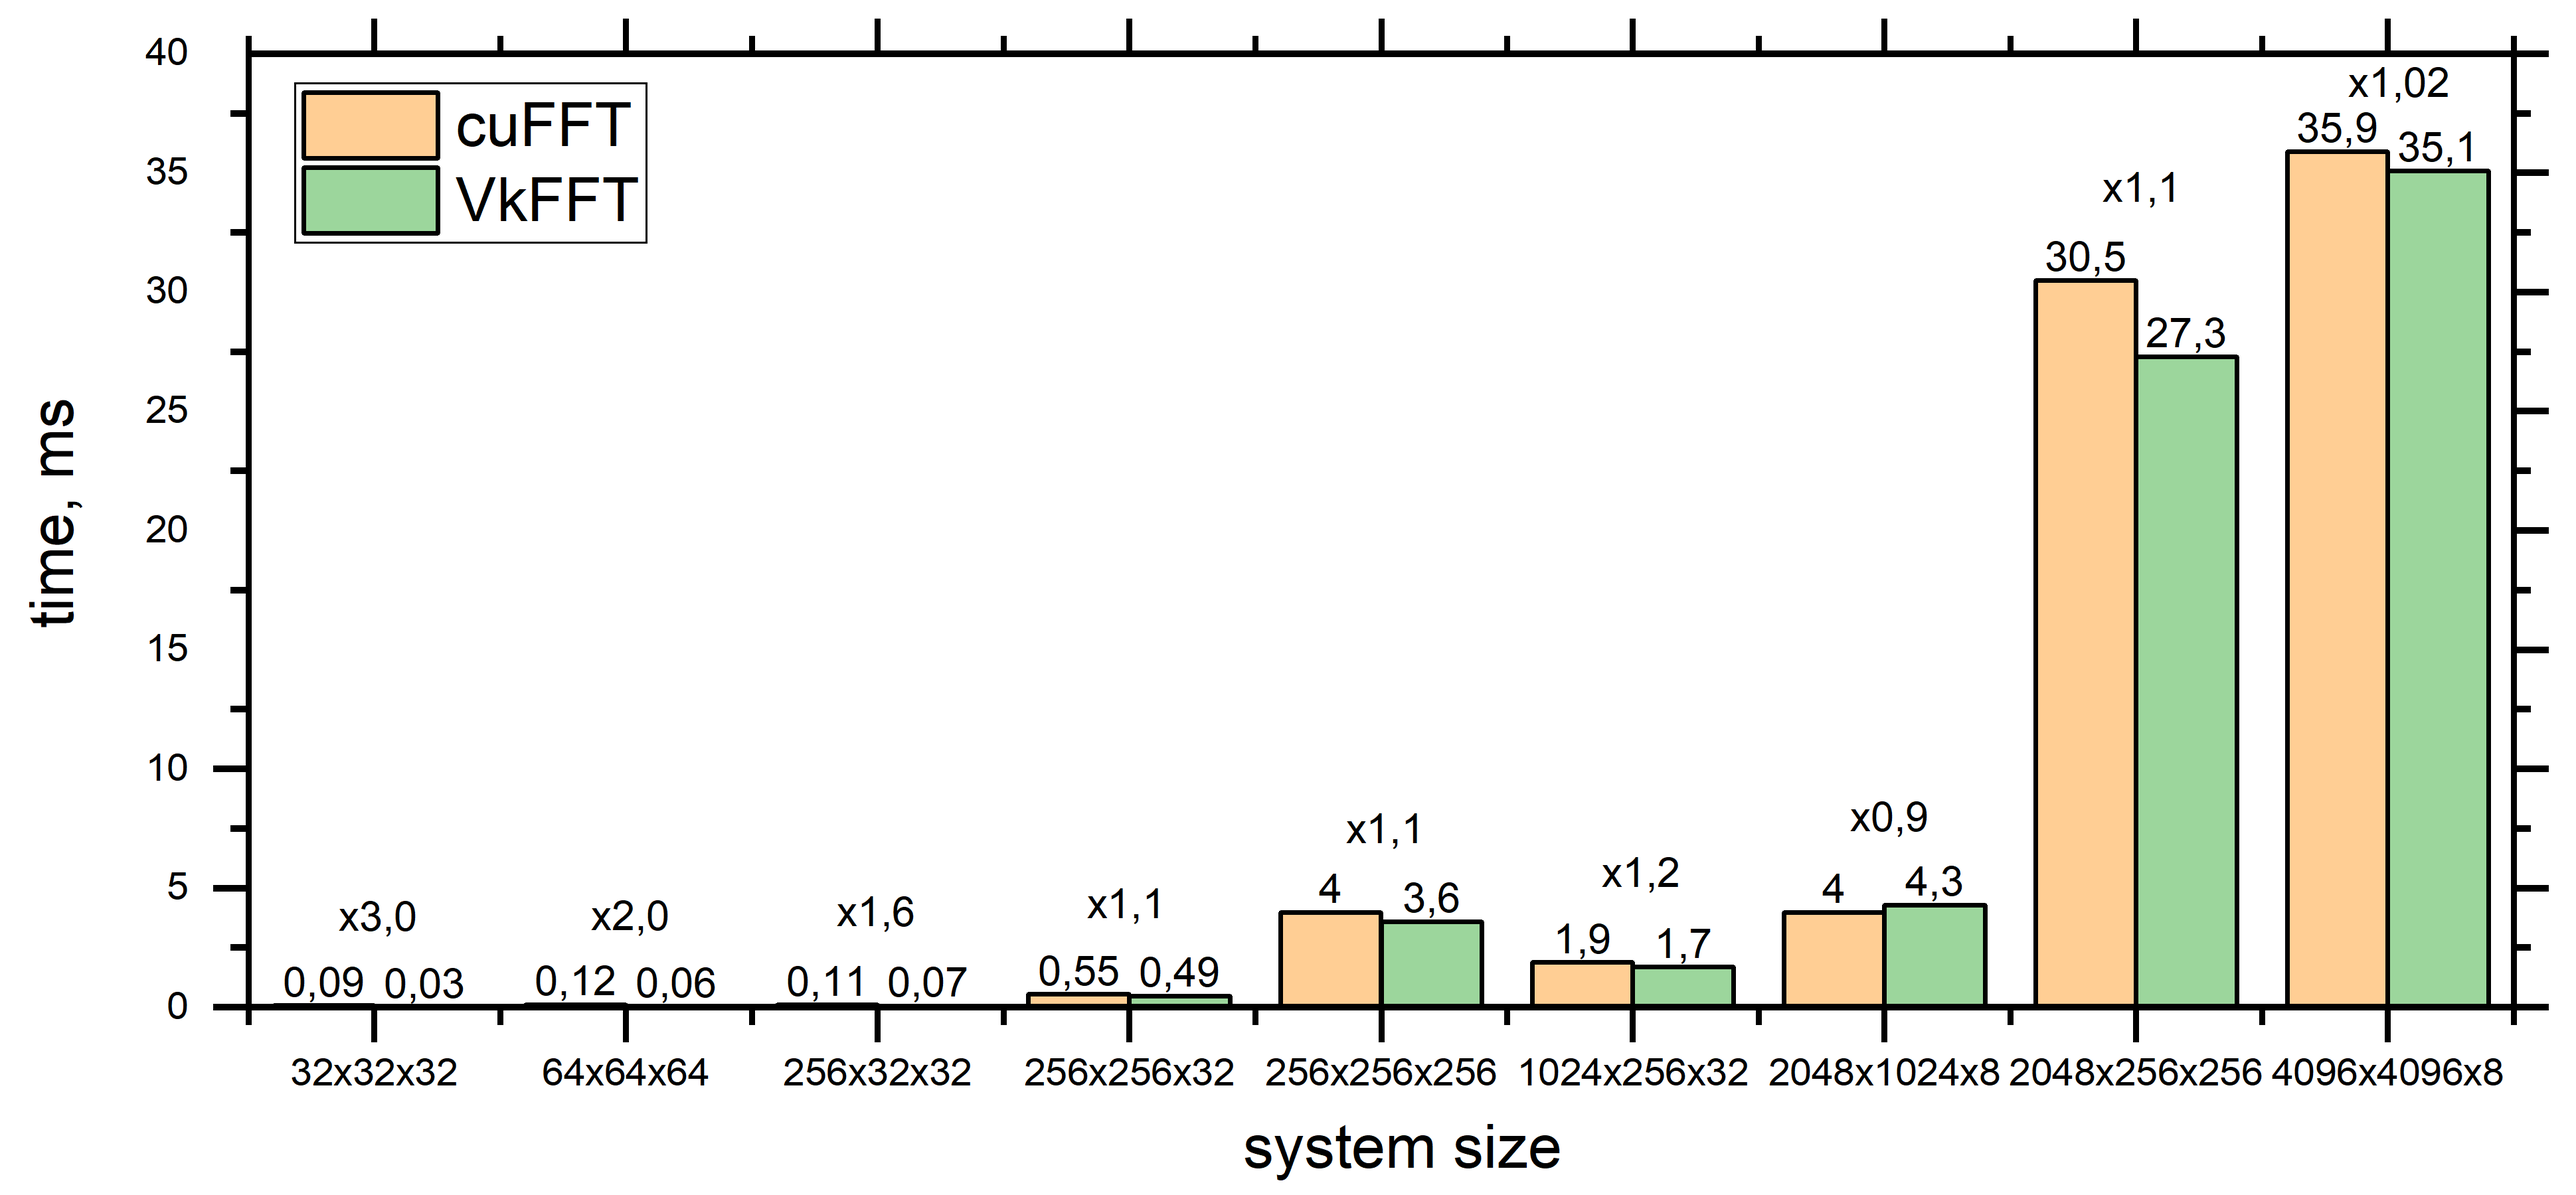
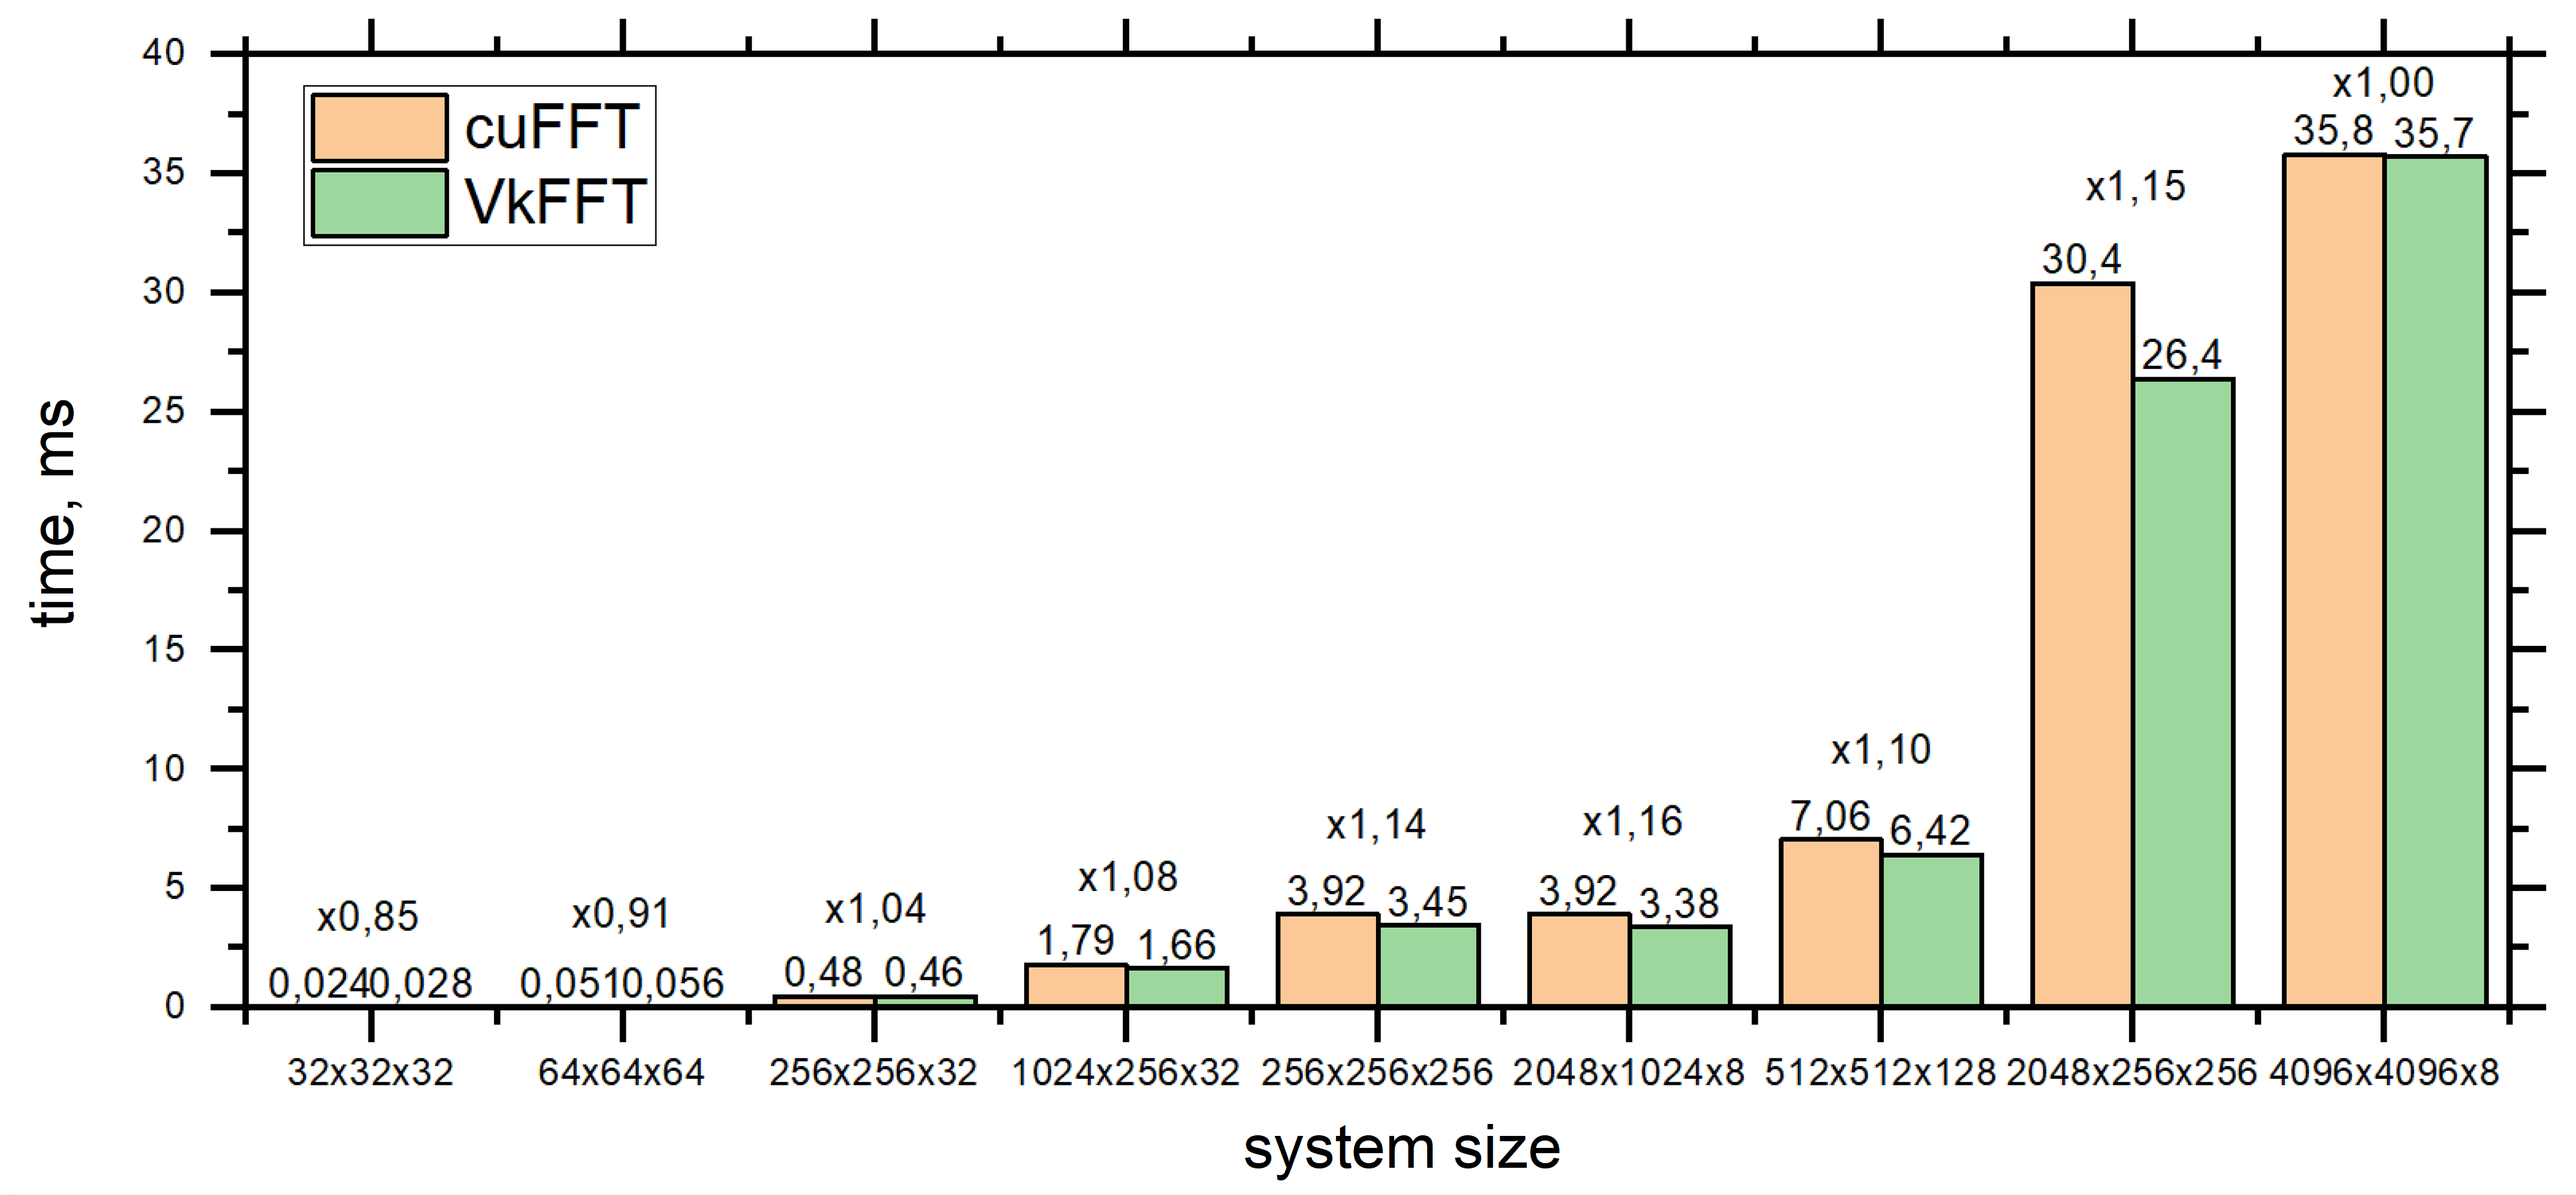
performance update for modern GPUs -improved performance on 512 and 1024 sequences on Nvidia GPUs with compute capability  >=6.0 -added option to choose the amount of coalesced memory per transfer (GPU dependent parameter) -updated cuFFT benchmark and benchmark images (llukas issue)

diff --git a/Vulkan_FFT.cpp b/Vulkan_FFT.cpp
@@ -392,15 +392,16 @@ int main()
 	vkGetPhysicalDeviceProperties(physicalDevice, &physicalDeviceProperties);
 	vkGetPhysicalDeviceMemoryProperties(physicalDevice, &physicalDeviceMemoryProperties);
 
-	uint32_t sample_id = 4;//setting parameter for VkFFT samples. 0 - FFT + iFFT R2C/C2R benchmark. 1 - convolution. 2 - zeropadding convolution. 3 - multiple feature(kernel) convolution. 4 - 8k sequence for testing
+	uint32_t sample_id = 0;//setting parameter for VkFFT samples. 0 - FFT + iFFT R2C/C2R benchmark. 1 - convolution. 2 - zeropadding convolution. 3 - multiple feature(kernel) convolution. 4 - 8k sequence for testing
 	switch (sample_id) {
 	case 0:
 	{
 		//0 - FFT + iFFT R2C/C2R benchmark
-		const uint32_t num_benchmark_samples = 20;
+		const uint32_t num_benchmark_samples = 19;
 		const uint32_t num_runs = 5;
-		uint32_t benchmark_dimensions[num_benchmark_samples][4] = { {32, 32, 1, 2}, {64, 64, 1, 2}, {256, 32, 1, 2}, {256, 256, 1, 2}, {1024, 256, 1, 2},{1024, 1024, 1, 2}, {4096, 256, 1, 2}, {4096, 2048, 1, 2}, {4096, 4096, 1, 2},
-																	{32, 32, 32, 3}, {64, 64, 64, 3}, {256, 32, 32, 3}, {256, 256, 32, 3}, {256, 256, 256, 3}, {1024, 256, 32, 3}, {1024, 1024, 8, 3}, {2048, 1024, 8, 3}, {2048, 256, 256, 3}, {4096, 4096, 8, 3}, {4096, 4096, 16, 3} };
+		printf("First %d runs are a warmup\n", num_runs);
+		uint32_t benchmark_dimensions[num_benchmark_samples][4] = { {1024, 1024, 1, 2}, {64, 64, 1, 2}, {256, 256, 1, 2}, {1024, 256, 1, 2}, {512, 512, 1, 2}, {1024, 1024, 1, 2},  {4096, 256, 1, 2}, {2048, 1024, 1, 2},{4096, 2048, 1, 2}, {4096, 4096, 1, 2},
+																	{32, 32, 32, 3}, {64, 64, 64, 3}, {256, 256, 32, 3},  {1024, 256, 32, 3},  {256, 256, 256, 3}, {2048, 1024, 8, 3},  {512, 512, 128, 3}, {2048, 256, 256, 3}, {4096, 4096, 8, 3}};
 
 		for (uint32_t n = 0; n < num_benchmark_samples; n++) {
 
@@ -412,6 +413,7 @@ int main()
 				VkFFTApplication app_inverse;
 				//FFT + iFFT sample code.
 				//Setting up FFT configuration for forward and inverse FFT.
+				forward_configuration.coalescedMemory = 32;//in bits, for Nvidia compute capability >=6.0 is equal to 32, <6.0 and Intel is equal 128. Gonna work regardles, but if specified by user correctly, the performance will be higher. 
 				forward_configuration.FFTdim = benchmark_dimensions[n][3]; //FFT dimension, 1D, 2D or 3D (default 1).
 				forward_configuration.size[0] = benchmark_dimensions[n][0]; //Multidimensional FFT dimensions sizes (default 1). For best performance (and stability), order dimensions in descendant size order as: x>y>z.   
 				forward_configuration.size[1] = benchmark_dimensions[n][1];
@@ -468,6 +470,7 @@ int main()
 				//Submit FFT+iFFT.
 				uint32_t batch = ((4096.0 * 1024.0 * 1024.0) / bufferSize > 1000) ? 1000 : (4096.0 * 1024.0 * 1024.0) / bufferSize;
 				if (batch == 0) batch = 1;
+				//batch *= 5; //makes result more smooth, takes longer time
 				float totTime = performVulkanFFTiFFT(&app_forward, &app_inverse, batch);
 				float* buffer_output = (float*)malloc(bufferSize);
 				
@@ -513,6 +516,7 @@ int main()
 		VkFFTApplication app_kernel;
 		//Convolution sample code
 		//Setting up FFT configuration. FFT is performed in-place with no performance loss. 
+		forward_configuration.coalescedMemory = 32;//in bits, for Nvidia compute capability >=6.0 is equal to 32, <6.0 and Intel is equal 128. Gonna work regardles, but if specified by user correctly, the performance will be higher. 
 		forward_configuration.FFTdim = 3; //FFT dimension, 1D, 2D or 3D (default 1).
 		forward_configuration.size[0] = 32; //Multidimensional FFT dimensions sizes (default 1). For best performance (and stability), order dimensions in descendant size order as: x>y>z. 
 		forward_configuration.size[1] = 32;
@@ -667,6 +671,7 @@ int main()
 		VkFFTApplication app_kernel;
 		//Zeropadding Convolution sample code
 		//Setting up FFT configuration. FFT is performed in-place with no performance loss. 
+		forward_configuration.coalescedMemory = 32;//in bits, for Nvidia compute capability >=6.0 is equal to 32, <6.0 and Intel is equal 128. Gonna work regardles, but if specified by user correctly, the performance will be higher. 
 		forward_configuration.FFTdim = 3; //FFT dimension, 1D, 2D or 3D (default 1).
 		forward_configuration.size[0] = 256; //Multidimensional FFT dimensions sizes (default 1). For best performance (and stability), order dimensions in descendant size order as: x>y>z. 
 		forward_configuration.size[1] = 256;
@@ -823,6 +828,7 @@ int main()
 		VkFFTApplication app_kernel;
 		//Convolution sample code
 		//Setting up FFT configuration. FFT is performed in-place with no performance loss. 
+		forward_configuration.coalescedMemory = 32;//in bits, for Nvidia compute capability >=6.0 is equal to 32, <6.0 and Intel is equal 128. Gonna work regardles, but if specified by user correctly, the performance will be higher. 
 		forward_configuration.FFTdim = 2; //FFT dimension, 1D, 2D or 3D (default 1).
 		forward_configuration.size[0] = 32; //Multidimensional FFT dimensions sizes (default 1). For best performance (and stability), order dimensions in descendant size order as: x>y>z. 
 		forward_configuration.size[1] = 32;
@@ -990,6 +996,7 @@ int main()
 				VkFFTApplication app_inverse;
 				//FFT + iFFT sample code.
 				//Setting up FFT configuration for forward and inverse FFT.
+				forward_configuration.coalescedMemory = 32;//in bits, for Nvidia compute capability >=6.0 is equal to 32, <6.0 and Intel is equal 128. Gonna work regardles, but if specified by user correctly, the performance will be higher. 
 				forward_configuration.FFTdim = benchmark_dimensions[n][3]; //FFT dimension, 1D, 2D or 3D (default 1).
 				forward_configuration.size[0] = benchmark_dimensions[n][0]; //Multidimensional FFT dimensions sizes (default 1). For best performance (and stability), order dimensions in descendant size order as: x>y>z.   
 				forward_configuration.size[1] = benchmark_dimensions[n][1];

diff --git a/lib/vkFFT.h b/lib/vkFFT.h
@@ -20,6 +20,7 @@ typedef struct {
 	bool isInputFormatted = false; //specify if input buffer is not padded for R2C if out-of-place mode is selected (only if numberBatches==1 and numberKernels==1) - false - padded, true - not padded
 	bool isOutputFormatted = false; //specify if output buffer is not padded for R2C if out-of-place mode is selected (only if numberBatches==1 and numberKernels==1) - false - padded, true - not padded
 	char shaderPath[256] = "shaders/"; //path to shaders, can be selected automatically in CMake
+	uint32_t coalescedMemory = 32;//in bits, for Nvidia compute capability >=6.0 is equal to 32, <6.0 and Intel is equal 128. Gonna work regardles, but if specified by user correctly, the performance will be higher. 
 	VkDevice* device;
 
 	VkDeviceSize* bufferSize;
@@ -311,7 +312,7 @@ typedef struct VkFFTApplication {
 			break;
 		}
 		}
-		if (4096 / configuration.size[1] > 8) {
+		if (4096 / configuration.size[1] > configuration.coalescedMemory / 16) {
 			configuration.performTranspose[0] = false;
 			FFTPlan->axes[1].groupedBatch = 4096 / configuration.size[1];
 		}
@@ -319,7 +320,7 @@ typedef struct VkFFTApplication {
 			configuration.performTranspose[0] = true;
 		}
 
-		if (4096 / configuration.size[2] > 8) {
+		if (4096 / configuration.size[2] > configuration.coalescedMemory / 16) {
 			configuration.performTranspose[1] = false;
 			FFTPlan->axes[2].groupedBatch = 4096 / configuration.size[2];
 		}
